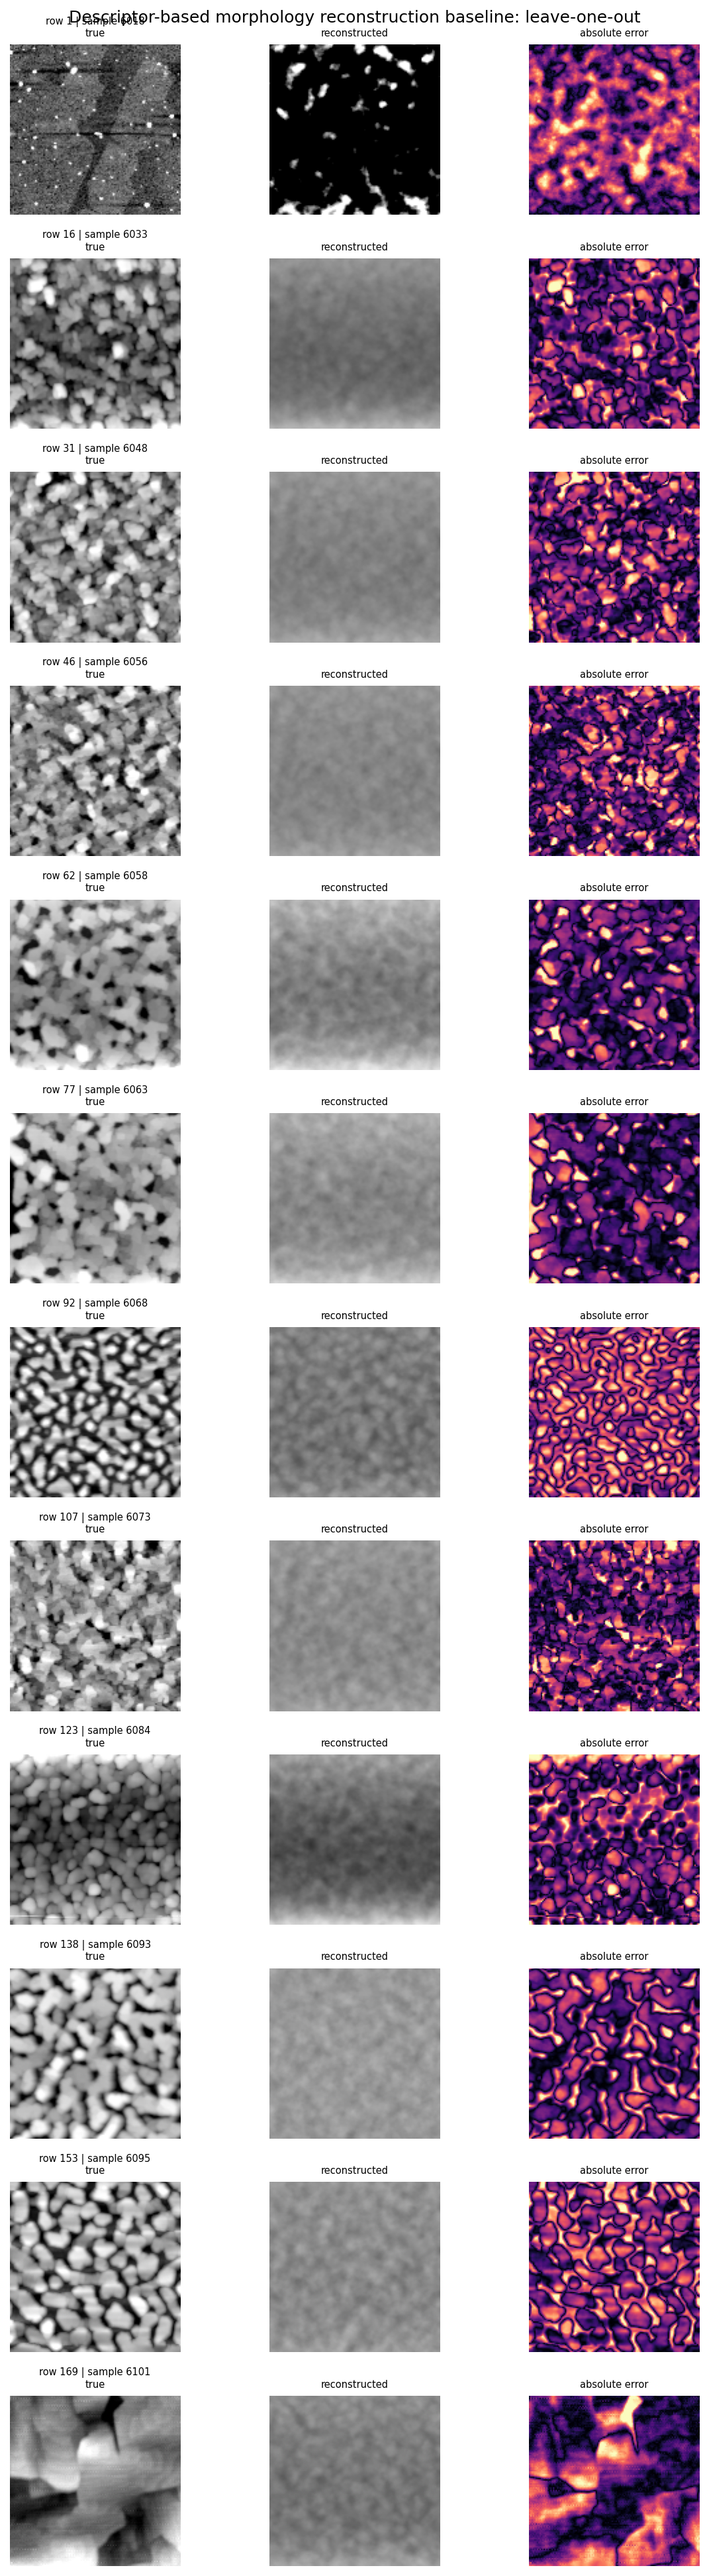
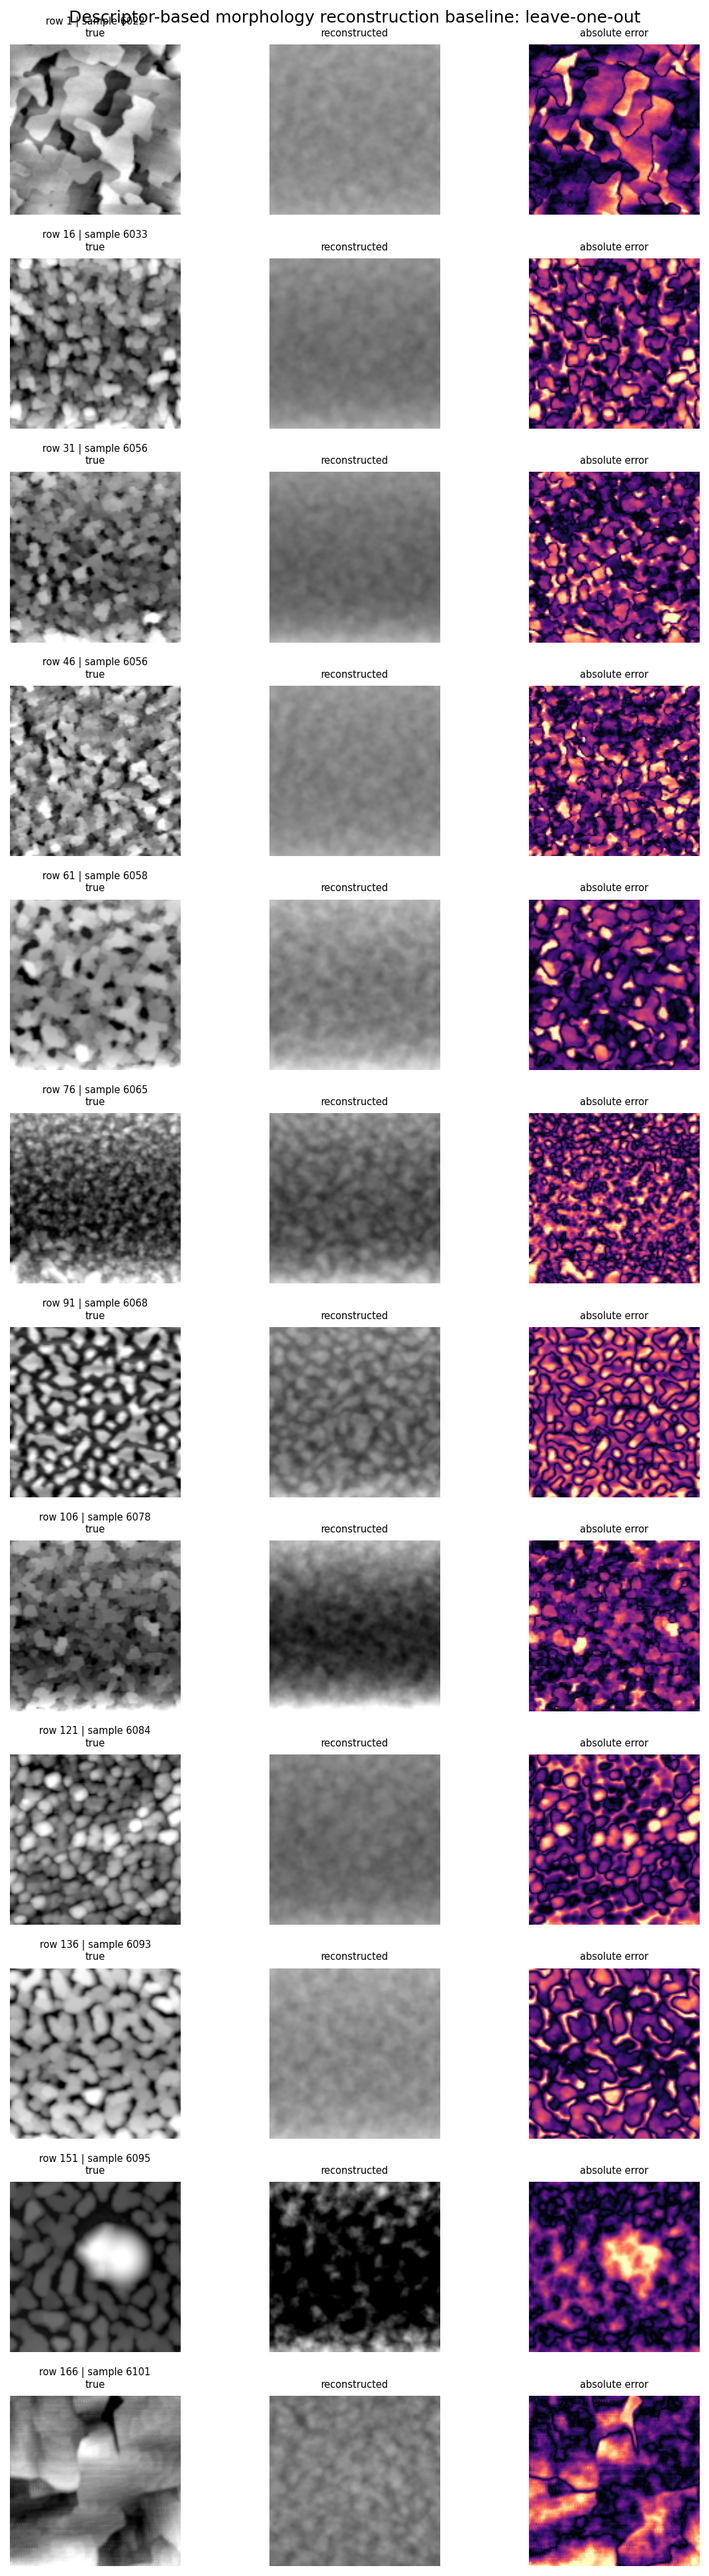
add remove list

diff --git a/src/rheed2morph/pairing/make_pairs.py b/src/rheed2morph/pairing/make_pairs.py
@@ -22,6 +22,21 @@ from pathlib import Path
 SAMPLE_RE = re.compile(r"^N(\d{4})")
 
 
+def load_removed_samples(remove_list_path: Path) -> set[str]:
+    """Load four-digit sample ids from a plain-text remove list file."""
+    if not remove_list_path.exists():
+        return set()
+
+    removed: set[str] = set()
+    for raw_line in remove_list_path.read_text(encoding="utf-8").splitlines():
+        line = raw_line.strip()
+        if not line or line.startswith("#"):
+            continue
+        for sample_id in re.findall(r"\d{4}", line):
+            removed.add(sample_id)
+    return removed
+
+
 def collect_sample_dirs(root: Path) -> dict[str, Path]:
     """Return {sample_number: folder_path} for immediate child folders."""
     samples: dict[str, Path] = {}
@@ -98,6 +113,15 @@ def main() -> None:
         help="Output folder for paired samples. Default: BASE/pair.",
     )
     parser.add_argument(
+        "--remove_list",
+        type=Path,
+        default=None,
+        help=(
+            "Text file listing sample ids to exclude before pairing. "
+            "Default: BASE/removelist.txt"
+        ),
+    )
+    parser.add_argument(
         "--dry-run",
         action="store_true",
         help="Print what would be created without copying files.",
@@ -108,13 +132,28 @@ def main() -> None:
     afm_root = (args.afm_root or base / "AFM").expanduser()
     rheed_root = (args.rheed_root or base / "RHEED").expanduser()
     pair_root = (args.pair_root or base / "pair").expanduser()
+    remove_list_path = (args.remove_list or base / "removelist.txt").expanduser()
 
     afm_samples = collect_sample_dirs(afm_root)
     rheed_samples = collect_sample_dirs(rheed_root)
-    common_numbers = sorted(set(afm_samples) & set(rheed_samples))
+    removed_samples = load_removed_samples(remove_list_path)
+
+    common_numbers_all = sorted(set(afm_samples) & set(rheed_samples))
+    common_numbers = [number for number in common_numbers_all if number not in removed_samples]
 
     print(f"Found {len(afm_samples)} AFM sample folders.")
     print(f"Found {len(rheed_samples)} RHEED sample folders.")
+    if removed_samples:
+        removed_in_common = sorted(set(common_numbers_all) & removed_samples)
+        removed_not_found = sorted(removed_samples - set(common_numbers_all))
+        print(f"Loaded {len(removed_samples)} removed sample id(s) from {remove_list_path}.")
+        if removed_in_common:
+            print(f"Excluded {len(removed_in_common)} sample(s): {', '.join(removed_in_common)}")
+        if removed_not_found:
+            print(
+                "Remove-list ids not found in both AFM/RHEED roots: "
+                f"{', '.join(removed_not_found)}"
+            )
     print(f"Creating {len(common_numbers)} paired folders in {pair_root}.")
 
     for number in common_numbers:

diff --git a/reports/afm_descriptor_reconstruction_large/summary.md b/reports/afm_descriptor_reconstruction_large/summary.md
@@ -6,12 +6,12 @@ Test whether using more AFM data improves descriptor-to-image MLP reconstruction
 
 ## Dataset
 
-- Total valid AFM files: 263
-- Unique sample_id count: 43
-- 1um scans: 169
-- Non-1um scans: 94
-- Scan size distribution: `{'0.0394x0.0394': 1, '0.0721x0.0721': 1, '0.076x0.076': 1, '0.0859x0.0859': 1, '0.0938x0.0938': 2, '0.0963x0.0963': 1, '0.0977x0.0977': 1, '0.102x0.102': 2, '0.141x0.141': 1, '0.168x0.168': 1, '0.187x0.17': 1, '0.1x0.1': 1, '0.201x0.201': 2, '0.203x0.203': 1, '0.207x0.207': 1, '0.219x0.219': 1, '0.238x0.238': 1, '0.263x0.263': 1, '0.27x0.27': 1, '0.301x0.301': 3, '0.305x0.305': 1, '0.309x0.309': 1, '0.332x0.332': 2, '0.395x0.395': 1, '0.488x0.488': 1, '0.496x0.496': 1, '0.498x0.498': 1, '0.49x0.49': 1, '0.508x0.508': 1, '0.5x0.5': 32, '0.664x0.664': 1, '0.688x0.688': 1, '0.781x0.738': 1, '0.801x0.801': 1, '0.891x0.891': 1, '0.8x0.8': 1, '1.02x1.02': 3, '1.33x1.33': 1, '1.5x1.5': 1, '1.64x1.64': 1, '1x0.5': 2, '1x1': 166, '2x2': 10, '5x5': 6}`
-- Original resolution distribution: `{'104x104': 3, '128x128': 2, '131x144': 1, '164x164': 1, '176x176': 1, '189x200': 1, '256x256': 193, '256x512': 2, '512x512': 59}`
+- Total valid AFM files: 250
+- Unique sample_id count: 40
+- 1um scans: 166
+- Non-1um scans: 84
+- Scan size distribution: `{'0.0394x0.0394': 1, '0.0721x0.0721': 1, '0.076x0.076': 1, '0.0859x0.0859': 1, '0.0938x0.0938': 1, '0.0963x0.0963': 1, '0.0977x0.0977': 1, '0.102x0.102': 2, '0.168x0.168': 1, '0.187x0.17': 1, '0.1x0.1': 1, '0.201x0.201': 2, '0.203x0.203': 1, '0.207x0.207': 1, '0.219x0.219': 1, '0.238x0.238': 1, '0.263x0.263': 1, '0.27x0.27': 1, '0.301x0.301': 3, '0.305x0.305': 1, '0.309x0.309': 1, '0.332x0.332': 2, '0.395x0.395': 1, '0.488x0.488': 1, '0.496x0.496': 1, '0.498x0.498': 1, '0.508x0.508': 1, '0.5x0.5': 32, '0.664x0.664': 1, '0.801x0.801': 1, '0.891x0.891': 1, '0.8x0.8': 1, '1.02x1.02': 3, '1.33x1.33': 1, '1.64x1.64': 1, '1x1': 163, '2x2': 8, '5x5': 6}`
+- Original resolution distribution: `{'104x104': 3, '128x128': 2, '131x144': 1, '164x164': 1, '256x256': 188, '512x512': 55}`
 
 ## Feature Changes
 
@@ -25,14 +25,14 @@ The MLP architecture was intentionally kept unchanged: descriptor input -> 128 -
 
 | Experiment | MSE | MAE | SSIM | Pearson |
 |---|---:|---:|---:|---:|
-| previous 1um-only MLP 5-fold | 0.2875288862 | 0.4035621831 | 0.07139394494 | 0.1829716765 |
-| insample_mlp | 0.000966797 | 0.0224818 | 0.971335 | 0.997433 |
-| random5fold_mlp | 0.274451 | 0.396286 | 0.0552223 | 0.161582 |
-| group5fold_mlp | 0.366393 | 0.446338 | 0.0230681 | 0.112474 |
-| mean_baseline_group5fold | 0.208066 | 0.370138 | 0.0075257 | 0.1816 |
-| nearest_neighbor_group5fold | 0.321306 | 0.441256 | 0.0344851 | 0.0979852 |
-| train_1um_test_non1um | 1.38313 | 0.799926 | 0.00612897 | 0.0278096 |
-| train_non1um_test_1um | 0.225415 | 0.377007 | 0.0153291 | 0.093006 |
+| previous 1um-only MLP 5-fold | 0.2863661285 | 0.4011227477 | 0.07122692654 | 0.1881195379 |
+| insample_mlp | 0.000570646 | 0.0179733 | 0.97921 | 0.998454 |
+| random5fold_mlp | 0.335528 | 0.427907 | 0.040606 | 0.135064 |
+| group5fold_mlp | 0.433545 | 0.465485 | 0.0205669 | 0.107226 |
+| mean_baseline_group5fold | 0.205092 | 0.366979 | 0.00807403 | 0.184142 |
+| nearest_neighbor_group5fold | 0.322827 | 0.444937 | 0.026648 | 0.105042 |
+| train_1um_test_non1um | 1.53945 | 0.817752 | 0.00591726 | 0.0358344 |
+| train_non1um_test_1um | 0.217984 | 0.371096 | 0.0181495 | 0.1031 |
 
 ## Interpretation
 

diff --git a/reports/afm_descriptor_reconstruction/mlp_decoder/README.md b/reports/afm_descriptor_reconstruction/mlp_decoder/README.md
@@ -6,9 +6,9 @@ The model maps selected AFM descriptors directly to normalized plane-corrected Z
 
 ## Metrics
 
-- insample: MSE=0.000737733, MAE=0.0183829, SSIM=0.986335, Pearson=0.998707
-- 5-fold_cv: MSE=0.287529, MAE=0.403562, SSIM=0.0713939, Pearson=0.182972
+- insample: MSE=0.00109243, MAE=0.0242829, SSIM=0.978123, Pearson=0.997228
+- 5-fold_cv: MSE=0.286366, MAE=0.401123, SSIM=0.0712269, Pearson=0.18812
 
 ## PCA Reference
 
-- best PCA LOOCV row: k=8, MSE=0.2159521145, MAE=0.3309649212, SSIM=0.08523758601, Pearson=0.2178610543
+- best PCA LOOCV row: k=8, MSE=0.1674179605, MAE=0.3193132348, SSIM=0.08371481485, Pearson=0.2160688719
